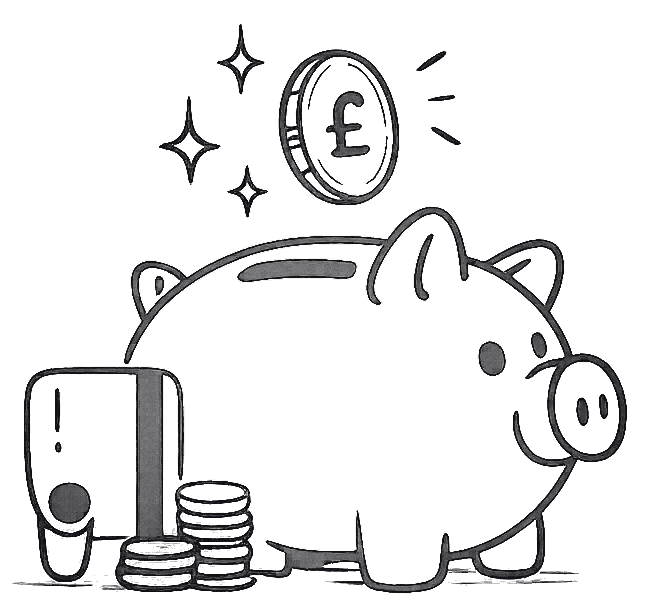
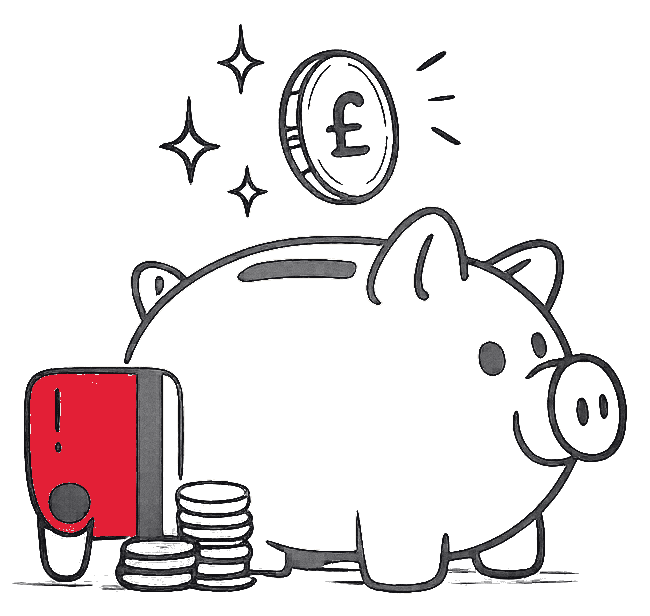
PayProp: OAuth2 alongside the existing API keys
PayProp is migrating from its own "APIkey" header to OAuth2 client
credentials, so the client now supports both and picks per account: an
account uses OAuth when it has a client id and secret, and falls back to
its API key otherwise. That lets Scotland and the rest of the UK migrate
independently instead of needing a flag day.

  PAYPROP_CLIENT_ID[_SCOTLAND|_UK]
  PAYPROP_CLIENT_SECRET[_SCOTLAND|_UK]
  PAYPROP_TOKEN_URL   — optional override; defaults to <base>/oauth/access_token

Tokens are cached per account until a minute before they expire, concurrent
renders collapse onto one token request, and a 401 drops the cached token so
the next call re-authenticates rather than repeating the failure. If a token
request fails the account still falls back to its API key rather than going
dark. The admin probe now reports which scheme each account resolved to.

Also: the piggy bank's debit card takes the brand red, same flood-fill
treatment as the houses.

Changed region(s): [[0.0308, 0.586, 0.2154, 0.8945]]

diff --git a/lib/payprop.ts b/lib/payprop.ts
@@ -11,8 +11,12 @@ import "server-only";
 //
 // Notes from the spec (uk.payprop.com):
 //   • Base: https://uk.payprop.com/api/agency/v1.1
-//   • Auth is NOT Bearer — PayProp uses its own scheme:
-//        Authorization: APIkey <key>
+//   • Two auth schemes are supported, OAuth first:
+//       - OAuth2 client credentials → Authorization: Bearer <token>
+//         (PAYPROP_CLIENT_ID[_ACCOUNT] + PAYPROP_CLIENT_SECRET[_ACCOUNT])
+//       - PayProp's original scheme  → Authorization: APIkey <key>
+//     An account uses OAuth when it has a client id/secret, and falls back to
+//     its API key otherwise, so the two accounts can migrate independently.
 //
 // Three behaviours found by probing the live API — none are in the published
 // spec, and each silently loses data if you miss it:
@@ -40,27 +44,113 @@ interface AccountDef {
   label: string;
   /** Env vars tried in order — the first non-empty one wins. */
   envKeys: string[];
+  /** OAuth2 client credentials, same first-match-wins rule. */
+  clientIdKeys: string[];
+  clientSecretKeys: string[];
 }
 
 const ACCOUNTS: AccountDef[] = [
   // PAYPROP_API_KEY is the original single-account name, kept as a fallback so a
   // half-finished rename can't take Scotland offline.
-  { id: "scotland", label: "Scotland", envKeys: ["PAYPROP_API_KEY_SCOTLAND", "PAYPROP_API_KEY"] },
-  { id: "uk", label: "Rest of UK", envKeys: ["PAYPROP_API_KEY_UK"] },
+  {
+    id: "scotland",
+    label: "Scotland",
+    envKeys: ["PAYPROP_API_KEY_SCOTLAND", "PAYPROP_API_KEY"],
+    clientIdKeys: ["PAYPROP_CLIENT_ID_SCOTLAND", "PAYPROP_CLIENT_ID"],
+    clientSecretKeys: ["PAYPROP_CLIENT_SECRET_SCOTLAND", "PAYPROP_CLIENT_SECRET"],
+  },
+  {
+    id: "uk",
+    label: "Rest of UK",
+    envKeys: ["PAYPROP_API_KEY_UK"],
+    clientIdKeys: ["PAYPROP_CLIENT_ID_UK", "PAYPROP_CLIENT_ID"],
+    clientSecretKeys: ["PAYPROP_CLIENT_SECRET_UK", "PAYPROP_CLIENT_SECRET"],
+  },
 ];
 
 function base(): string {
   return (process.env.PAYPROP_API_BASE ?? DEFAULT_BASE).replace(/\/$/, "");
 }
 
-function keyFor(id: PayPropAccountId): string | null {
-  const def = ACCOUNTS.find((a) => a.id === id);
-  if (!def) return null;
-  for (const env of def.envKeys) {
-    const v = process.env[env];
+function firstEnv(names: string[]): string | null {
+  for (const name of names) {
+    const v = process.env[name];
     if (v) return v;
   }
   return null;
+}
+
+function keyFor(id: PayPropAccountId): string | null {
+  const def = ACCOUNTS.find((a) => a.id === id);
+  return def ? firstEnv(def.envKeys) : null;
+}
+
+function oauthFor(id: PayPropAccountId): { id: string; secret: string } | null {
+  const def = ACCOUNTS.find((a) => a.id === id);
+  if (!def) return null;
+  const clientId = firstEnv(def.clientIdKeys);
+  const secret = firstEnv(def.clientSecretKeys);
+  return clientId && secret ? { id: clientId, secret } : null;
+}
+
+/* ------------------------------ OAuth tokens ------------------------------ */
+
+function tokenUrl(): string {
+  return process.env.PAYPROP_TOKEN_URL ?? `${base()}/oauth/access_token`;
+}
+
+const tokens = new Map<PayPropAccountId, { token: string; expiresAt: number }>();
+const pending = new Map<PayPropAccountId, Promise<string | null>>();
+
+async function fetchToken(account: PayPropAccountId): Promise<string | null> {
+  const creds = oauthFor(account);
+  if (!creds) return null;
+  try {
+    const res = await fetch(tokenUrl(), {
+      method: "POST",
+      headers: { "Content-Type": "application/x-www-form-urlencoded" },
+      body: new URLSearchParams({
+        grant_type: "client_credentials",
+        client_id: creds.id,
+        client_secret: creds.secret,
+      }),
+      cache: "no-store",
+      signal: AbortSignal.timeout(TIMEOUT_MS),
+    });
+    if (!res.ok) return null;
+    const data = (await res.json()) as { access_token?: string; expires_in?: number };
+    if (!data.access_token) return null;
+    // Retire it a minute early so no call starts with a token about to die.
+    const ttl = Math.max((data.expires_in ?? 3600) * 1000 - 60_000, 30_000);
+    tokens.set(account, { token: data.access_token, expiresAt: Date.now() + ttl });
+    return data.access_token;
+  } catch {
+    return null;
+  }
+}
+
+async function accessToken(account: PayPropAccountId): Promise<string | null> {
+  const held = tokens.get(account);
+  if (held && Date.now() < held.expiresAt) return held.token;
+  // Collapse concurrent renders onto a single token request per account.
+  let job = pending.get(account);
+  if (!job) {
+    job = fetchToken(account).finally(() => pending.delete(account));
+    pending.set(account, job);
+  }
+  return job;
+}
+
+/** OAuth when the account has client credentials, its API key otherwise. */
+async function authHeader(account: PayPropAccountId): Promise<string | null> {
+  if (oauthFor(account)) {
+    const t = await accessToken(account);
+    if (t) return `Bearer ${t}`;
+    // Fall through: a token failure shouldn't take the account offline if it
+    // still has a working API key.
+  }
+  const key = keyFor(account);
+  return key ? `APIkey ${key}` : null;
 }
 
 export function payPropLabel(id: PayPropAccountId): string {
@@ -69,7 +159,13 @@ export function payPropLabel(id: PayPropAccountId): string {
 
 /** Accounts we actually hold a key for. Business-wide figures sum over these. */
 export function payPropAccounts(): PayPropAccountId[] {
-  return ACCOUNTS.filter((a) => keyFor(a.id)).map((a) => a.id);
+  return ACCOUNTS.filter((a) => keyFor(a.id) || oauthFor(a.id)).map((a) => a.id);
+}
+
+/** Which scheme an account will use — for the admin probe. */
+export function payPropAuthMode(id: PayPropAccountId): "oauth" | "apikey" | null {
+  if (oauthFor(id)) return "oauth";
+  return keyFor(id) ? "apikey" : null;
 }
 
 /** True when at least one PayProp account is wired up. */
@@ -98,8 +194,8 @@ export async function payPropGet<T = Record<string, unknown>>(
   path: string,
   params: Record<string, string | number | boolean | undefined> = {}
 ): Promise<PayPropPage<T> | null> {
-  const key = keyFor(account);
-  if (!key) return null;
+  const auth = await authHeader(account);
+  if (!auth) return null;
 
   const qs = new URLSearchParams();
   for (const [k, v] of Object.entries(params)) {
@@ -111,14 +207,13 @@ export async function payPropGet<T = Record<string, unknown>>(
   const timer = setTimeout(() => controller.abort(), TIMEOUT_MS);
   try {
     const res = await fetch(url, {
-      headers: {
-        // PayProp's own scheme — "APIkey", not "Bearer".
-        Authorization: `APIkey ${key}`,
-        Accept: "application/json",
-      },
+      headers: { Authorization: auth, Accept: "application/json" },
       cache: "no-store",
       signal: controller.signal,
     });
+    // A rejected token is usually one revoked early — drop it so the next
+    // call re-authenticates instead of repeating the failure.
+    if (res.status === 401) tokens.delete(account);
     if (!res.ok) return null;
     const json = (await res.json()) as unknown;
     if (Array.isArray(json)) return { items: json as T[] };

diff --git a/app/api/admin/payprop-probe/route.ts b/app/api/admin/payprop-probe/route.ts
@@ -3,6 +3,7 @@ import { verifySessionToken, SESSION_COOKIE, isAdminEmail } from "@/lib/auth";
 import { findById } from "@/lib/users-store";
 import {
   payPropAccounts,
+  payPropAuthMode,
   payPropConfigured,
   payPropGet,
   payPropLabel,
@@ -32,11 +33,19 @@ export async function GET(req: NextRequest) {
   if (!payPropConfigured()) {
     return NextResponse.json({
       configured: false,
-      hint: "Add PAYPROP_API_KEY_SCOTLAND and/or PAYPROP_API_KEY_UK in Railway, then redeploy.",
+      hint:
+        "Add credentials in Railway, then redeploy. OAuth: PAYPROP_CLIENT_ID + " +
+        "PAYPROP_CLIENT_SECRET (or the _SCOTLAND / _UK variants). Legacy: " +
+        "PAYPROP_API_KEY_SCOTLAND / PAYPROP_API_KEY_UK.",
     });
   }
 
   const ping = await payPropPing();
+  // Which scheme each account resolved to — the first thing to check when a
+  // migrated account starts failing.
+  const auth = Object.fromEntries(
+    payPropAccounts().map((a) => [a, payPropAuthMode(a)])
+  );
 
   const sample = async (
     account: PayPropAccountId,
@@ -79,5 +88,5 @@ export async function GET(req: NextRequest) {
     })
   );
 
-  return NextResponse.json({ configured: true, ping, accounts });
+  return NextResponse.json({ configured: true, auth, ping, accounts });
 }
